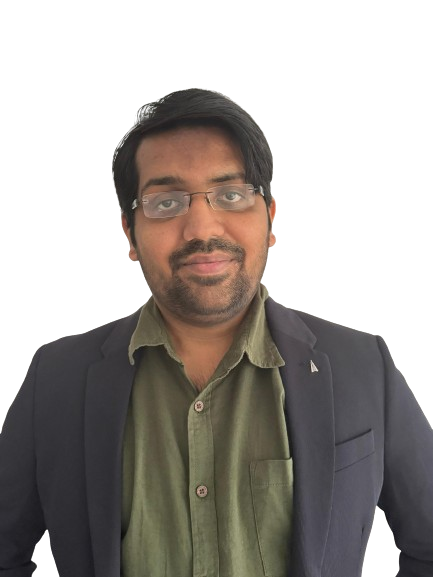
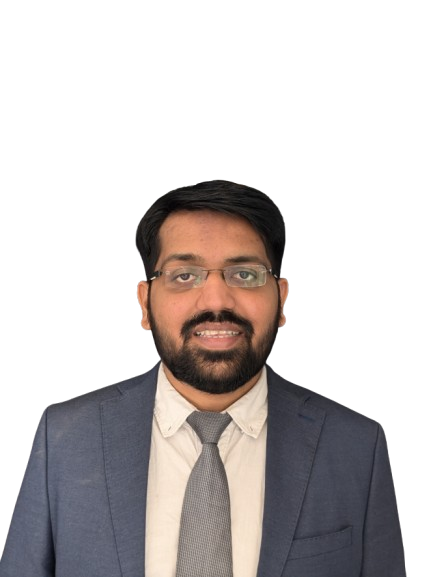
photo updated

diff --git a/src/components/projects/Projects.js b/src/components/projects/Projects.js
@@ -2,7 +2,8 @@ import React from "react";
 import Title from "../layouts/Title";
 import {
  todolist,
- weatherapp
+ weatherapp,
+ cricketscoretracker
 } from "../../assets/index";
 import ProjectsCard from "./ProjectsCard";
 
@@ -53,6 +54,18 @@ const Projects = () => {
           src={weatherapp}
           github="https://github.com/Binish30/Weather-App"
           live="https://climatracker.vercel.app/"
+        />
+        <ProjectsCard
+          title="Simple Cricket Score Tracker"
+          des={
+            <p>
+              Developed an interactive web application to track cricket scores, displaying runs per ball and total scores for a user-defined number of overs. Built using{" "}
+              <span className="text-designColor font-bold">  HTML, CSS and JavaScript </span>, for responsive design
+            </p>
+          }
+          src={cricketscoretracker}
+          github="https://github.com/Binish30/cricket-score-tracker"
+          live="https://simple-cricket-score-tracker.vercel.app/"
         />
       </div>
     </section>

diff --git a/src/assets/index.js b/src/assets/index.js
@@ -3,6 +3,7 @@ import contactImg from "./images/contact/contactImg.png";
 import logo from "./images/logo.png";
 import todolist from "./images/projects/todolist.png";
 import weatherapp from "./images/projects/weatherapp.png";
+import cricketscoretracker from "./images/projects/cricketscoretracker.png"
 
 export {
     bannerImg,
@@ -10,4 +11,5 @@ export {
     logo,
     todolist,
     weatherapp,
+    cricketscoretracker,
 };
